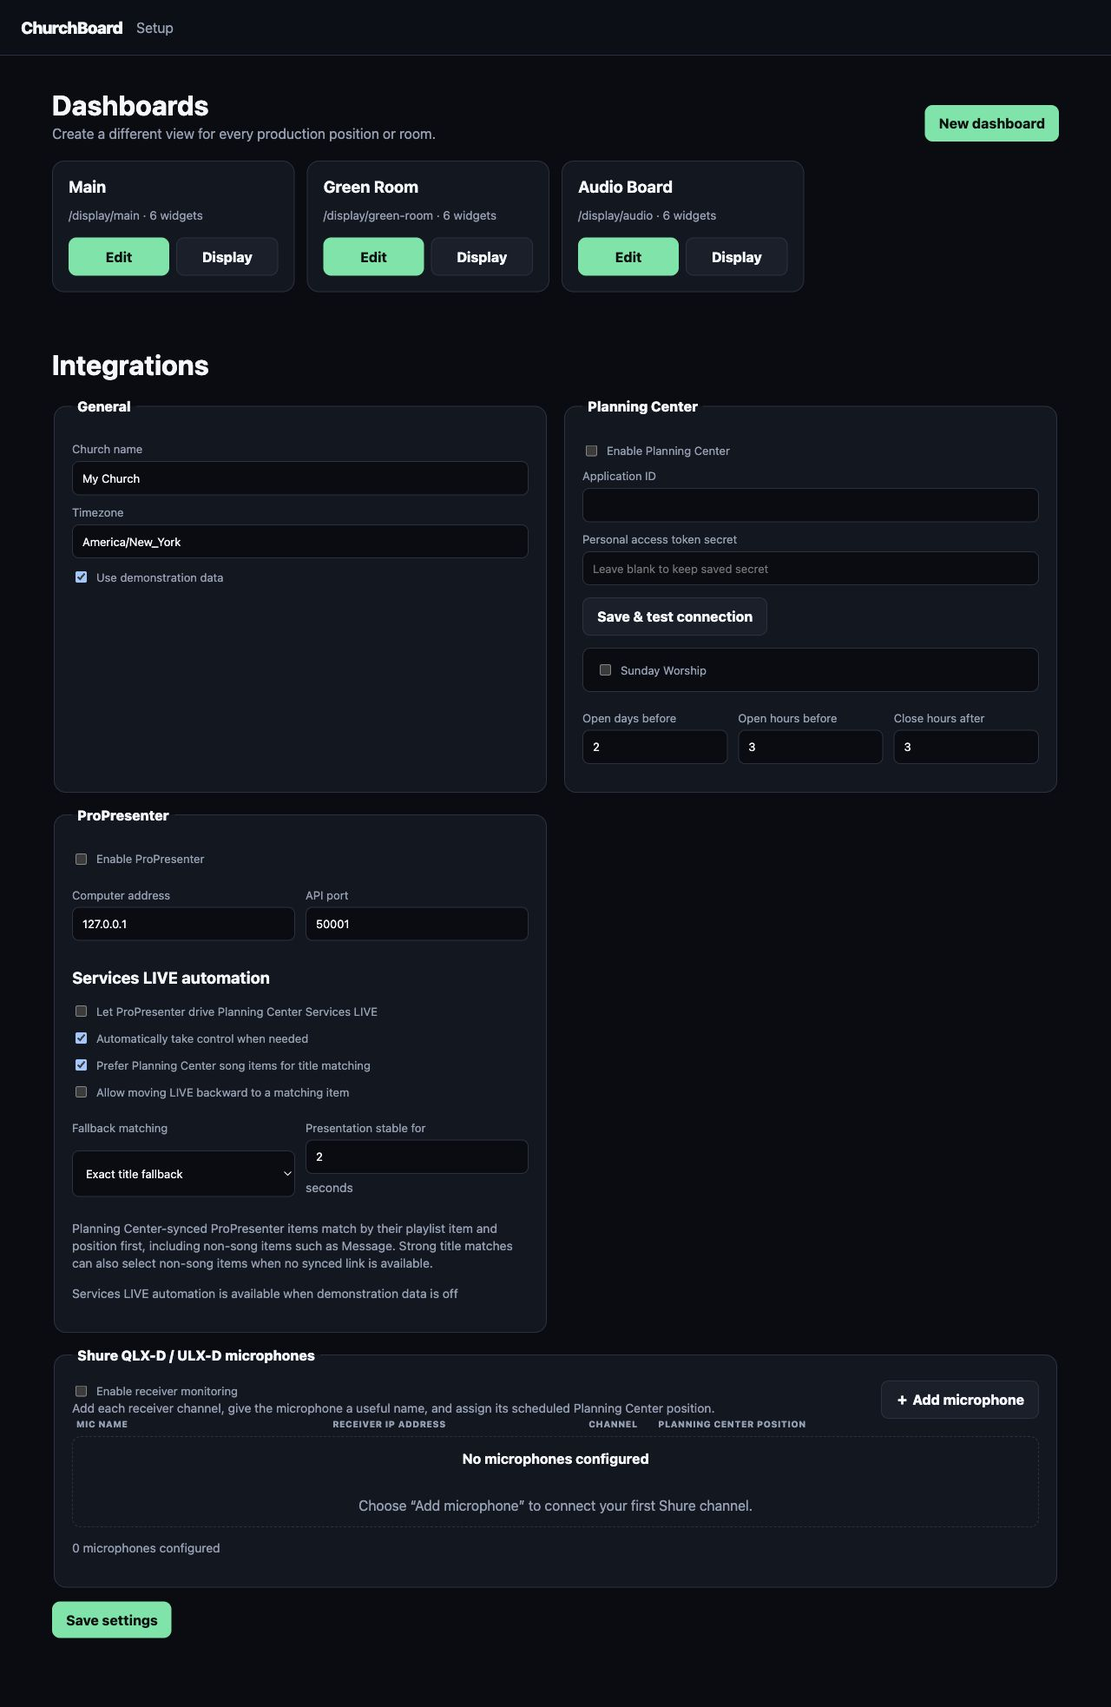
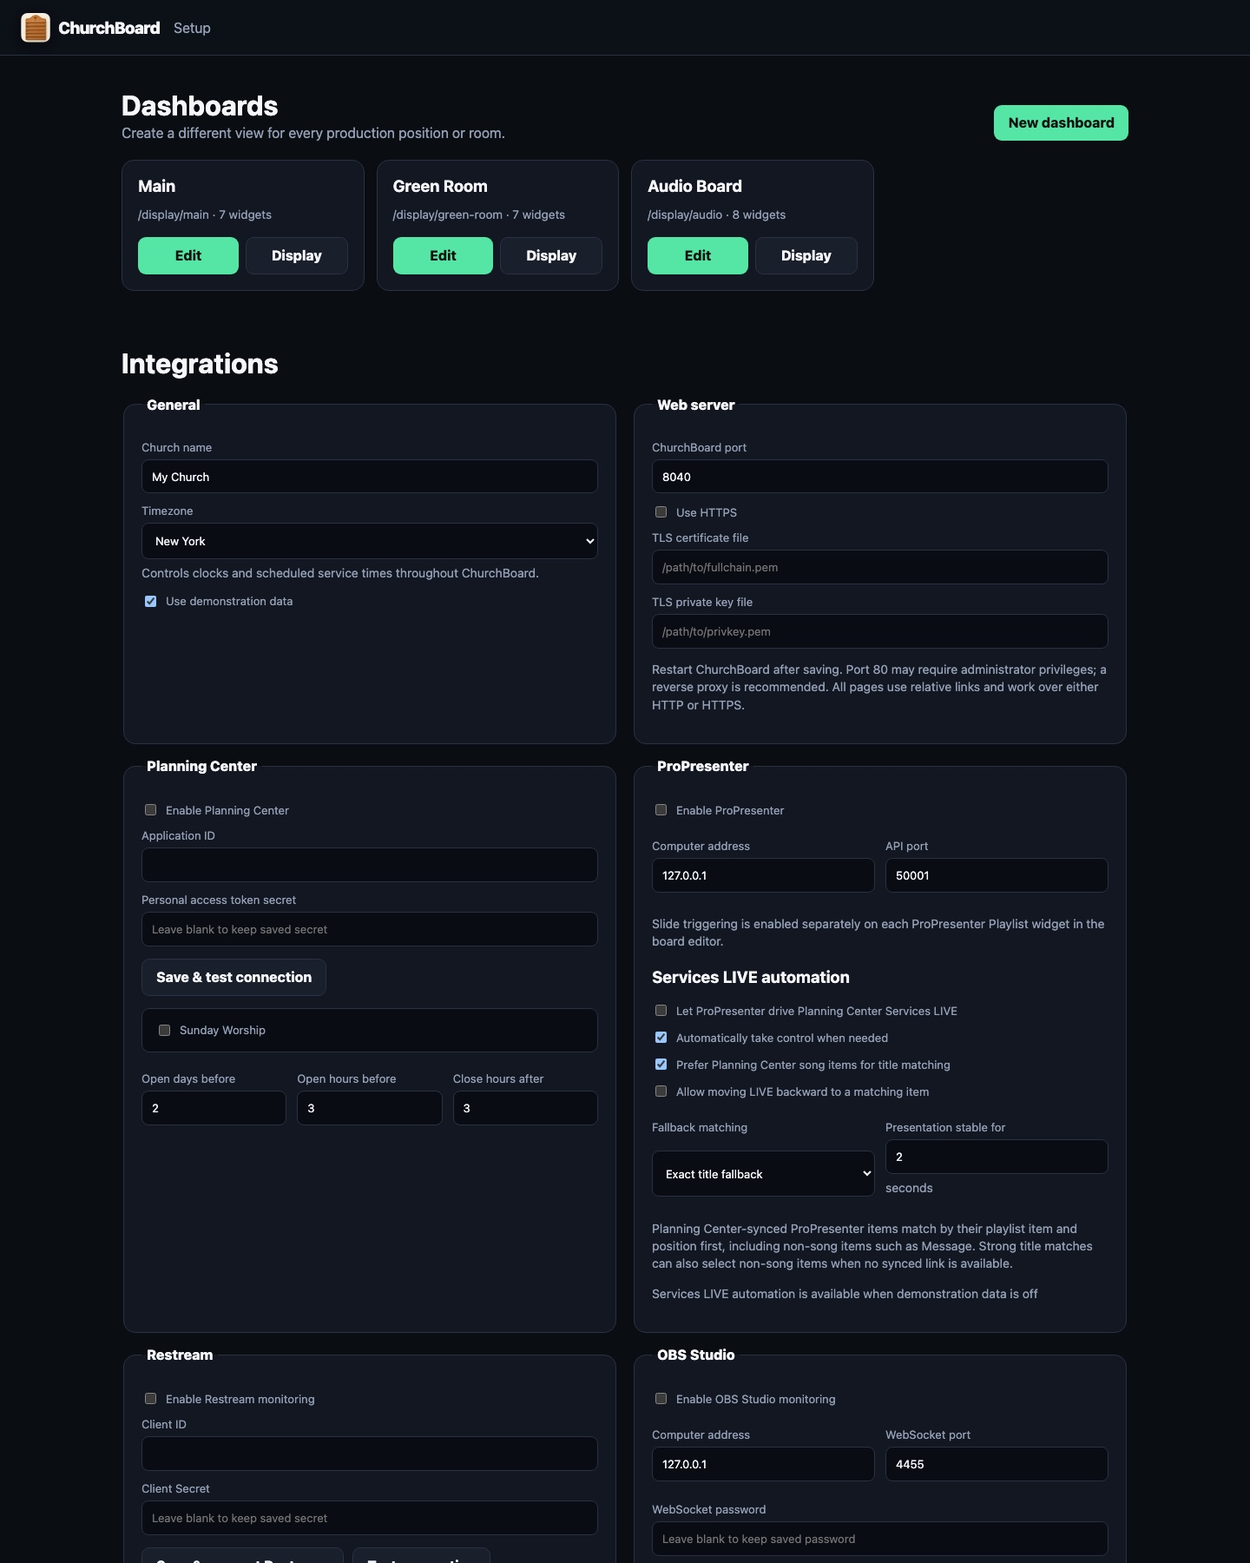
Prepare ChurchBoard 1.4.0 release

diff --git a/app/version.py b/app/version.py
@@ -1,3 +1,3 @@
 """ChurchBoard release version."""
 
-__version__ = "1.4.0-beta.11"
+__version__ = "1.4.0"

diff --git a/README.md b/README.md
@@ -8,7 +8,7 @@
 
 ChurchBoard is a cross-platform production dashboard for churches. It combines Planning Center schedules and people, ProPresenter slides and service flow, Shure QLX-D/ULX-D/SLX-D and Sennheiser EW-DX microphone telemetry, Open Sound Meter levels, OBS Studio health, and Restream broadcast status in configurable displays for the stage, green room, audio booth, and production team.
 
-> **Producer-platform beta:** The `beta/producer-platform` branch adds organization accounts and roles, campuses, Planning Center position checklists and tagged-media resources, completion/activity tracking, portable dashboard layouts, a modal widget editor with direct resize handles, configurable HTTP/HTTPS, and mobile layouts. See the [Producer workspace beta guide](docs/PRODUCER.md).
+ChurchBoard 1.4 adds a mobile-friendly Producer workspace with organization accounts and roles, campuses, Planning Center position checklists and tagged-media resources, completion tracking, portable dashboard layouts, configurable HTTP/HTTPS, and a redesigned widget editor. See the [Producer workspace guide](docs/PRODUCER.md).
 
 ## Watch the setup and demo video
 
@@ -22,7 +22,7 @@ See ChurchBoard in action and follow the setup walkthrough in the **[ChurchBoard
 - Photo-forward scheduled-position and microphone cards, including unassigned positions and a per-widget choice between one card per person or one card per position
 - Shure QLX-D/ULX-D/SLX-D and Sennheiser EW-DX battery, RF/audio, transmitter, mute, warning, and online/offline status
 - Current and next ProPresenter slides as text or slide images, with live countdown overlays and video playback progress
-- A scrollable ProPresenter playlist that shows every playlist item, presentation, section marker, and available slide thumbnail; missing images receive readable text fallbacks, and trusted operators can trigger a presentation or individual slide from ChurchBoard
+- A scrollable ProPresenter playlist that shows every playlist item, presentation, and section marker with a per-widget choice of rendered preview images or slide text; repeated arrangement sections retain correct thumbnails, and trusted operators can trigger a presentation or individual slide from ChurchBoard
 - Optional live-board slide controls and keyboard control for ProPresenter, with corrected current-slide thumbnails and Planning Center-linked item matching
 - A read-only ProPresenter timers widget showing each timer's current value and state
 - ProPresenter item title, part labels and colors, slide number, and notes
@@ -38,7 +38,7 @@ See ChurchBoard in action and follow the setup walkthrough in the **[ChurchBoard
 - A multi-provider livestream status widget with green/gray state lights, per-stream elapsed time, available live-viewer counts, Facebook/YouTube channel URLs, and independent BoxCast, Resi, and Restream API configuration
 - A scrollable, resizable sermon-notes widget that selects a named note field from a Planning Center service item
 - A dedicated ProPresenter control pad for previous/next slide and previous/next playlist item
-- A mobile-friendly producer workspace for position checklists, files, links, team access, campuses, and an activity trail *(producer-platform beta)*
+- A mobile-friendly Producer workspace for position checklists, Planning Center tagged media, embedded resources, files, links, team access, campuses, and an activity trail
 
 ![ChurchBoard audio-board dashboard](docs/screenshots/audio-board.jpg)
 
@@ -49,22 +49,26 @@ Choose your computer and click its download link:
 
 | Your computer | Download |
 | --- | --- |
-| **Windows 10 or 11** | **[Download the Windows installer (.exe)](https://github.com/wtapper89/ChurchBoard/releases/latest/download/ChurchBoard-1.3.3-Windows-x64-Setup.exe)** |
-| **Mac with Apple silicon** — M1 or newer | **[Download the Apple silicon Mac disk image (.dmg)](https://github.com/wtapper89/ChurchBoard/releases/latest/download/ChurchBoard-1.3.3-macOS-arm64.dmg)** |
-| **Mac with an Intel processor** | **[Download the Intel Mac disk image (.dmg)](https://github.com/wtapper89/ChurchBoard/releases/latest/download/ChurchBoard-1.3.3-macOS-x86_64.dmg)** |
-| **Ubuntu or Debian Linux** | **[Download the Linux installer (.deb)](https://github.com/wtapper89/ChurchBoard/releases/latest/download/ChurchBoard-1.3.3-Linux-amd64.deb)** |
-| **Other 64-bit desktop Linux** | **[Download the portable Linux package (.tar.gz)](https://github.com/wtapper89/ChurchBoard/releases/latest/download/ChurchBoard-1.3.3-Linux-x86_64.tar.gz)** |
+| **Windows 10 or 11** | **[Download the Windows installer (.exe)](https://github.com/wtapper89/ChurchBoard/releases/latest/download/ChurchBoard-1.4.0-Windows-x64-Setup.exe)** |
+| **Mac with Apple silicon** — M1 or newer | **[Download the Apple silicon Mac disk image (.dmg)](https://github.com/wtapper89/ChurchBoard/releases/latest/download/ChurchBoard-1.4.0-macOS-arm64.dmg)** |
+| **Mac with an Intel processor** | **[Download the Intel Mac disk image (.dmg)](https://github.com/wtapper89/ChurchBoard/releases/latest/download/ChurchBoard-1.4.0-macOS-x86_64.dmg)** |
+| **Ubuntu or Debian Linux** | **[Download the Linux installer (.deb)](https://github.com/wtapper89/ChurchBoard/releases/latest/download/ChurchBoard-1.4.0-Linux-amd64.deb)** |
+| **Other 64-bit desktop Linux** | **[Download the portable Linux package (.tar.gz)](https://github.com/wtapper89/ChurchBoard/releases/latest/download/ChurchBoard-1.4.0-Linux-x86_64.tar.gz)** |
 
 Not sure which Mac you have? Choose **Apple menu → About This Mac**. If it says **Chip**, use Apple silicon. If it says **Processor**, use Intel.
 
 **Raspberry Pi:** jump to the [one-command Raspberry Pi installer](#raspberry-pi).
 
-[View all v1.3.3 downloads and release notes](https://github.com/wtapper89/ChurchBoard/releases/tag/v1.3.3)
+[View all v1.4.0 downloads and release notes](https://github.com/wtapper89/ChurchBoard/releases/tag/v1.4.0)
 
-### What's new in 1.3.3
+### What's new in 1.4.0
 
-- Deleting the optional ProPresenter Playlist widget now keeps it deleted on every dashboard.
-- The live Playlist widget's **Slide controls** and **Arrow keys** settings use larger, clearer toggle switches.
+- Producer accounts with Admin, Editor, and Volunteer roles; optional passwords; editable campuses and users; local administrator recovery; and easier Planning Center person matching.
+- Position-based, versioned checklists and resources, including Planning Center tagged media that opens inside ChurchBoard.
+- Portable dashboard export/import, a categorized widget palette, modal settings, always-visible editor buttons, and direct drag resizing.
+- Configurable listening port and direct HTTPS certificate support with mobile-friendly dashboards, editing, and Producer workflows.
+- New livestream, OBS, ProPresenter control, timers, and sermon-notes widgets with responsive sizing.
+- The ProPresenter Playlist can show rendered previews or slide text, follows repeated arrangements correctly, and keeps controls and auto-scroll configurable per board.
 
 ## Install
 
@@ -98,9 +102,15 @@ Start with [Configuration](docs/CONFIGURATION.md), then follow the detailed [Pla
 
 ## Dashboard editing
 
-Each dashboard has a stable URL. Add widgets from the palette, drag them on the canvas, and resize from the blue right edge, bottom edge, or corner. The upper-right **Edit** button or a right-click opens modal settings, leaving the full editor width for the board. Every widget title can be hidden. Scheduled-position widgets can consolidate multiple roles into one card per person or retain one card per position. The ProPresenter playlist widget shows the focused playlist as a continuous, automatically scrolling list; choose compact, comfortable, or large density, an active-slide border color, and whether slide controls and keyboard control start enabled on that board. A separate control widget provides previous/next slide and item buttons. Order-of-service widgets can show a compact current window, a scrollable complete plan, or the complete plan fitted to the widget. Text, cards, photos, timers, and status displays scale with their widget and stack into readable cards on narrow mobile screens. Setup can cancel a new dashboard before it is named, and the editor includes a confirmation-protected **Delete display** action. The display hamburger includes an **Edit** action beside every board, and **Open display** in the editor reuses the current tab.
+Each dashboard has a stable URL. Add widgets from the palette, drag them on the canvas, and resize from the blue right edge, bottom edge, or corner. The upper-right **Edit** button or a right-click opens modal settings, leaving the full editor width for the board. Every widget title can be hidden. Scheduled-position widgets can consolidate multiple roles into one card per person or retain one card per position. The ProPresenter playlist widget shows the focused playlist as a continuous, automatically scrolling list; choose rendered preview images or slide text, compact/comfortable/large density, an active-slide border color, and whether slide controls and keyboard control start enabled on that board. A separate control widget provides previous/next slide and item buttons. Order-of-service widgets can show a compact current window, a scrollable complete plan, or the complete plan fitted to the widget. Text, cards, photos, timers, and status displays scale with their widget and stack into readable cards on narrow mobile screens. Setup can cancel a new dashboard before it is named, and the editor includes a confirmation-protected **Delete display** action. The display hamburger includes an **Edit** action beside every board, and **Open display** in the editor reuses the current tab.
 
 ![ChurchBoard WYSIWYG dashboard editor](docs/screenshots/dashboard-editor.jpg)
+
+## Producer workspace
+
+Open `/producer` to manage the selected service, position checklists, embedded Planning Center resources, users, campuses, and activity. Existing installations remain usable without sign-in until the first owner account is created. See the [Producer workspace guide](docs/PRODUCER.md) for roles, optional passwords, Planning Center matching, mobile use, and backup guidance.
+
+![ChurchBoard Producer workspace](docs/screenshots/producer-workspace.jpg)
 
 ## Credits, licenses, and legal
 
@@ -135,4 +145,4 @@ See [Development and release builds](docs/DEVELOPMENT.md) for platform build com
 
 ## Security
 
-Planning Center credentials remain in the local ChurchBoard data directory and are excluded from Git. The producer-platform beta provides local accounts, role-based access, secure session cookies, and direct HTTPS certificate support. Keep ChurchBoard on a trusted production network and read [SECURITY.md](SECURITY.md) before allowing remote access.
+Planning Center credentials remain in the local ChurchBoard data directory and are excluded from Git. ChurchBoard provides local accounts, role-based access, secure session cookies, optional direct HTTPS certificate support, and a password-optional mode intended only for physically controlled production networks. Keep ChurchBoard on a trusted production network and read [SECURITY.md](SECURITY.md) before allowing remote access.

diff --git a/docs/PROPRESENTER.md b/docs/PROPRESENTER.md
@@ -1,6 +1,6 @@
 # ProPresenter setup
 
-ChurchBoard can read ProPresenter's current and next slides, slide images, notes, item title, part labels, colors, and slide number. Its ProPresenter Playlist widget also displays the focused playlist, including placeholders, every presentation, section markers, and all available slide thumbnails. On a trusted production network, ChurchBoard can trigger a playlist presentation or any slide within it. It can also match the active ProPresenter item to the same Planning Center plan and optionally use that match to advance Planning Center Services LIVE.
+ChurchBoard can read ProPresenter's current and next slides, slide images, notes, item title, part labels, colors, and slide number. Its ProPresenter Playlist widget also displays the focused playlist, including placeholders, every presentation, section markers, and a per-widget choice of rendered thumbnails or slide text. On a trusted production network, ChurchBoard can trigger a playlist presentation or any slide within it. It can also match the active ProPresenter item to the same Planning Center plan and optionally use that match to advance Planning Center Services LIVE.
 
 The most reliable workflow is to connect ProPresenter to Planning Center and open the service as a linked **Planning Center Service** playlist instead of building an unrelated local playlist.
 
@@ -76,7 +76,7 @@ In ChurchBoard's dashboard editor, select a **ProPresenter** widget and choose:
 
 Part labels use their ProPresenter colors. If parts do not change with the slide, confirm the cues/groups in the presentation are named and colored in ProPresenter.
 
-For the **ProPresenter playlist** widget, select the focused playlist in ProPresenter. ChurchBoard renders its placeholders and presentations in playlist order and shows every slide in each presentation continuously with its section marker. Choose compact, comfortable, or large density in the widget settings. **Follow and auto-scroll** keeps the active slide in view. ChurchBoard updates the active marker in place and caches stable playlist details and thumbnails, avoiding full list rebuilds and image flashes on every poll.
+For the **ProPresenter playlist** widget, select the focused playlist in ProPresenter. ChurchBoard renders its placeholders and presentations in playlist order and shows every slide in each presentation continuously with its section marker. In widget settings, choose **Rendered preview images** or **Slide text**, then choose compact, comfortable, or large density. **Follow and auto-scroll** keeps the active slide in view. ChurchBoard maps repeated arrangement sections back to their original ProPresenter thumbnail cues, updates the active marker in place, and caches stable playlist details and thumbnails to avoid missing repeated previews, full list rebuilds, and image flashes on every poll.
 
 On the live board itself, turn on **Slide controls** to make presentation headings and slide thumbnails clickable. Keep it off on public or read-only displays. ChurchBoard uses the live active presentation's current arrangement, rather than a stale library copy, when building the active slide sequence.
 

diff --git a/docs/INSTALLATION.md b/docs/INSTALLATION.md
@@ -6,15 +6,15 @@ ChurchBoard runs a small local web server and displays its interface in a browse
 
 | Platform | Installer |
 | --- | --- |
-| Windows 10 or 11 | **[Download for Windows (.exe)](https://github.com/wtapper89/ChurchBoard/releases/latest/download/ChurchBoard-1.3.3-Windows-x64-Setup.exe)** |
-| Apple silicon Mac — M1 or newer | **[Download for Apple silicon Mac (.dmg)](https://github.com/wtapper89/ChurchBoard/releases/latest/download/ChurchBoard-1.3.3-macOS-arm64.dmg)** |
-| Intel Mac | **[Download for Intel Mac (.dmg)](https://github.com/wtapper89/ChurchBoard/releases/latest/download/ChurchBoard-1.3.3-macOS-x86_64.dmg)** |
-| Ubuntu or Debian Linux | **[Download for Linux (.deb)](https://github.com/wtapper89/ChurchBoard/releases/latest/download/ChurchBoard-1.3.3-Linux-amd64.deb)** |
-| Other 64-bit Linux | **[Download the portable Linux package (.tar.gz)](https://github.com/wtapper89/ChurchBoard/releases/latest/download/ChurchBoard-1.3.3-Linux-x86_64.tar.gz)** |
+| Windows 10 or 11 | **[Download for Windows (.exe)](https://github.com/wtapper89/ChurchBoard/releases/latest/download/ChurchBoard-1.4.0-Windows-x64-Setup.exe)** |
+| Apple silicon Mac — M1 or newer | **[Download for Apple silicon Mac (.dmg)](https://github.com/wtapper89/ChurchBoard/releases/latest/download/ChurchBoard-1.4.0-macOS-arm64.dmg)** |
+| Intel Mac | **[Download for Intel Mac (.dmg)](https://github.com/wtapper89/ChurchBoard/releases/latest/download/ChurchBoard-1.4.0-macOS-x86_64.dmg)** |
+| Ubuntu or Debian Linux | **[Download for Linux (.deb)](https://github.com/wtapper89/ChurchBoard/releases/latest/download/ChurchBoard-1.4.0-Linux-amd64.deb)** |
+| Other 64-bit Linux | **[Download the portable Linux package (.tar.gz)](https://github.com/wtapper89/ChurchBoard/releases/latest/download/ChurchBoard-1.4.0-Linux-x86_64.tar.gz)** |
 
-[See every v1.3.3 download](https://github.com/wtapper89/ChurchBoard/releases/tag/v1.3.3)
+[See every v1.4.0 download](https://github.com/wtapper89/ChurchBoard/releases/tag/v1.4.0)
 
-When the repository is private, sign in to the GitHub account that has access before downloading. The links work normally without sign-in after the repository is public.
+These links point to the official public ChurchBoard release. If you install from a private fork instead, sign in to a GitHub account with access and download that fork's release assets from its Releases page.
 
 After installation, Setup is available at:
 
@@ -31,7 +31,7 @@ http://CHURCHBOARD-COMPUTER-IP:8040/display/main
 ## Windows 10 and 11
 
 1. Use the **Download for Windows** link above.
-2. Open `ChurchBoard-1.3.3-Windows-x64-Setup.exe`.
+2. Open `ChurchBoard-1.4.0-Windows-x64-Setup.exe`.
 3. Run the installer. Leave **Start ChurchBoard automatically when I sign in** checked.
 4. When Windows Firewall asks, allow ChurchBoard on **Private networks** if displays on other production computers need to connect.
 5. ChurchBoard starts and opens its desktop control page.

diff --git a/docs/CONFIGURATION.md b/docs/CONFIGURATION.md
@@ -111,6 +111,8 @@ When ProPresenter is synced from a Planning Center plan, ChurchBoard can use the
 
 ChurchBoard first uses ProPresenter's Planning Center playlist/item ordering when available. It then uses normalized title matching, including non-song items such as `Message`, even when the presentation itself has a title like a Scripture reference.
 
+The **ProPresenter playlist** widget can display either ProPresenter's rendered preview images or the text returned for every cue. Open that widget's settings and choose **Slide content**. Repeated chorus, bridge, tag, and other arrangement groups keep their expanded playlist position while ChurchBoard reuses the correct original ProPresenter thumbnail.
+
 ## 7. Configure order of service
 
 Select an **Order of service** widget in the editor to enable:
@@ -163,6 +165,8 @@ Restream monitoring shows whether a broadcast is live or upcoming, its elapsed t
 4. In ChurchBoard Setup, enable **Restream monitoring** and enter both credentials.
 5. Choose **Save & connect Restream**, authorize the account, and then test the connection.
 6. Add a **Restream livestream** widget to any dashboard that needs broadcast visibility.
+
+For the multi-provider **Livestream status** widget, configure each provider in that widget's settings. YouTube accepts a channel or current watch URL and can use a YouTube Data API key for reliable channel discovery and viewer counts. Facebook requires a Page access token for reliable Page live/offline state because anonymous Facebook Page HTML does not consistently expose the active broadcast. BoxCast, Resi, and Restream accept their corresponding status API endpoints and bearer credentials. Saved credentials remain server-side and are not returned with public dashboard configuration.
 
 ChurchBoard stores the client secret and OAuth tokens only in its local settings. Encoder bitrate and health are not exposed by the Restream public API, so ChurchBoard labels those values unavailable instead of estimating them. See [Restream setup](RESTREAM.md).
 

diff --git a/docs/PRODUCER.md b/docs/PRODUCER.md
@@ -1,8 +1,8 @@
-# Producer workspace beta
+# Producer workspace
 
-ChurchBoard 1.4 evolves the display system into a service-production workspace. This beta implements the first usable slices of GitHub issues #2, #5, #26, and #28 while retaining the existing local, no-login behavior until an owner account is created.
+ChurchBoard 1.4 evolves the display system into a service-production workspace while retaining the existing local, no-login behavior until an owner account is created.
 
-## Start the beta
+## Start Producer
 
 Open `/producer` on the ChurchBoard computer. On first use, ChurchBoard asks you to create the organization owner. Creating that account enables authentication for protected setup, editor, and producer pages.
 
@@ -58,6 +58,6 @@ ChurchBoard then listens at `https://<host>:8040`, or at the configured port. Po
 
 On the same trusted network, open `https://churchboard-hostname:8040/producer` from a phone or tablet. Producer navigation, scheduled-person cards, checklists, forms, and editor chrome collapse to touch-friendly layouts. Live dashboards automatically stack widgets into a single readable column on narrow screens; the editor remains usable with touch-friendly settings and scrollable layout controls.
 
-## Beta limits
+## Current scope
 
-This release uses local accounts. Invitation email, password-reset email, SSO, directory synchronization, aggregate reporting, and cloud storage remain future work. Back up the ChurchBoard data directory and export layouts before substantial testing.
+ChurchBoard 1.4 uses local accounts and local resource storage. Invitation email, password-reset email, SSO, directory synchronization, aggregate reporting, and cloud storage are not included. Back up the ChurchBoard data directory and export layouts regularly.

diff --git a/docs/DEVELOPMENT.md b/docs/DEVELOPMENT.md
@@ -64,7 +64,7 @@ This produces a portable `.tar.gz` and a `.deb` for the current architecture.
 
 ## Automated releases
 
-GitHub Actions runs tests on pushes and pull requests. The release workflow can be started manually for test artifacts. Pushing a tag such as `v1.3.3` builds macOS Intel, macOS Apple-silicon, Windows x64, and Linux packages and attaches them to a GitHub Release.
+GitHub Actions runs tests on pushes and pull requests. The release workflow can be started manually for test artifacts. Pushing a release tag such as `v1.4.0` builds macOS Intel, macOS Apple-silicon, Windows x64, and Linux packages and attaches them to a GitHub Release.
 
 Before creating a release:
 
@@ -74,8 +74,8 @@ Before creating a release:
 4. Tag the exact commit:
 
    ```bash
-   git tag v1.3.3
-   git push origin v1.3.3
+   git tag v1.4.0
+   git push origin v1.4.0
    ```
 
 ### macOS signing and notarization
